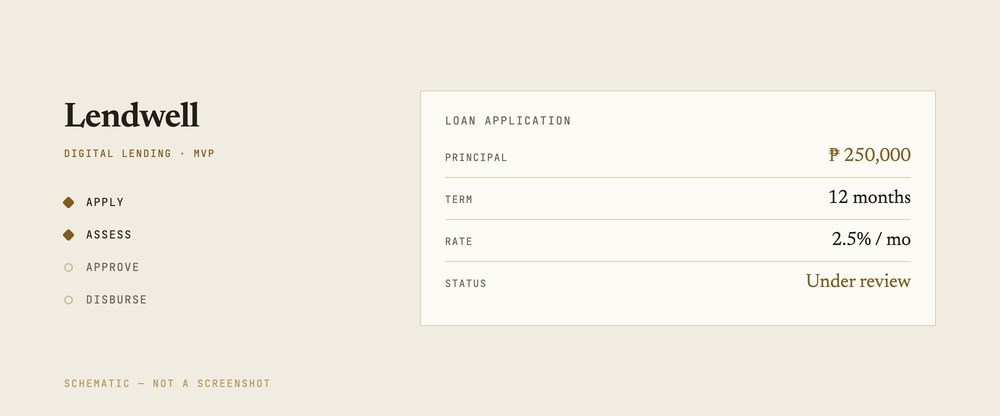
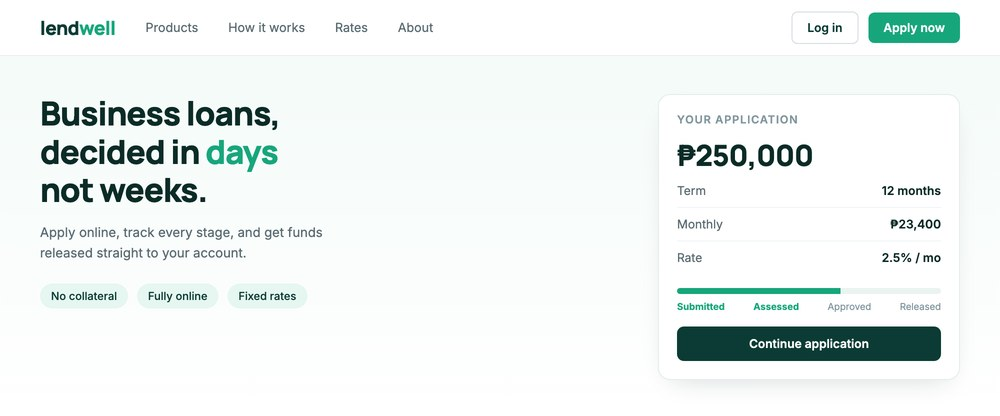
Replace the schematics with colour UI mockups
The schematics were drawn in the page's own palette, which made them read as
page furniture rather than products — the opposite of the point. These are
proper interface mockups: Lendwell as a lending platform landing page,
Field Sales CRM as an iOS route screen, both in their own colours so they
sit beside the seven real captures as equals.

Reversing my earlier caution, with a reason: these are products he actually
built, so representing them isn't inventing anything. The risk was only that
someone reads a mockup as a live capture — and the card states outright that
there is no public site. The disclosure belongs on the card, not baked into
the image where it defeats the purpose. Label is now "Mockup · no public
site" rather than the vaguer "Not publicly available", which could be read
as a private system someone had screenshotted.

Store names in the CRM mockup are invented (Northgate Mart, Riverside
Grocery). The first pass used real Philippine chains — SM, Puregold,
Savemore, Alfamart — which would have implied P&A Trading held those
specific accounts. Figures throughout are illustrative.

diff --git a/index.html b/index.html
@@ -581,7 +581,7 @@
           <div class="site-co">Lendwell Solutions Inc.</div>
           <p class="site-desc">A digital lending platform's MVP, built from nothing — architecture set directly with the CEO.</p>
           <div class="site-stack">Ruby on Rails · PostgreSQL</div>
-          <div class="note">Not publicly available</div>
+          <div class="note">Mockup &middot; no public site</div>
         </div>
       </div>
       <div class="site-card founding nolink">
@@ -592,7 +592,7 @@
           <div class="site-co">P &amp; A Trading Corporation</div>
           <p class="site-desc">A CRM for the field sales team — iOS app and backend, built from nothing.</p>
           <div class="site-stack">Swift · Java / Spring</div>
-          <div class="note">Not publicly available</div>
+          <div class="note">Mockup &middot; no public site</div>
         </div>
       </div>
     </div>
